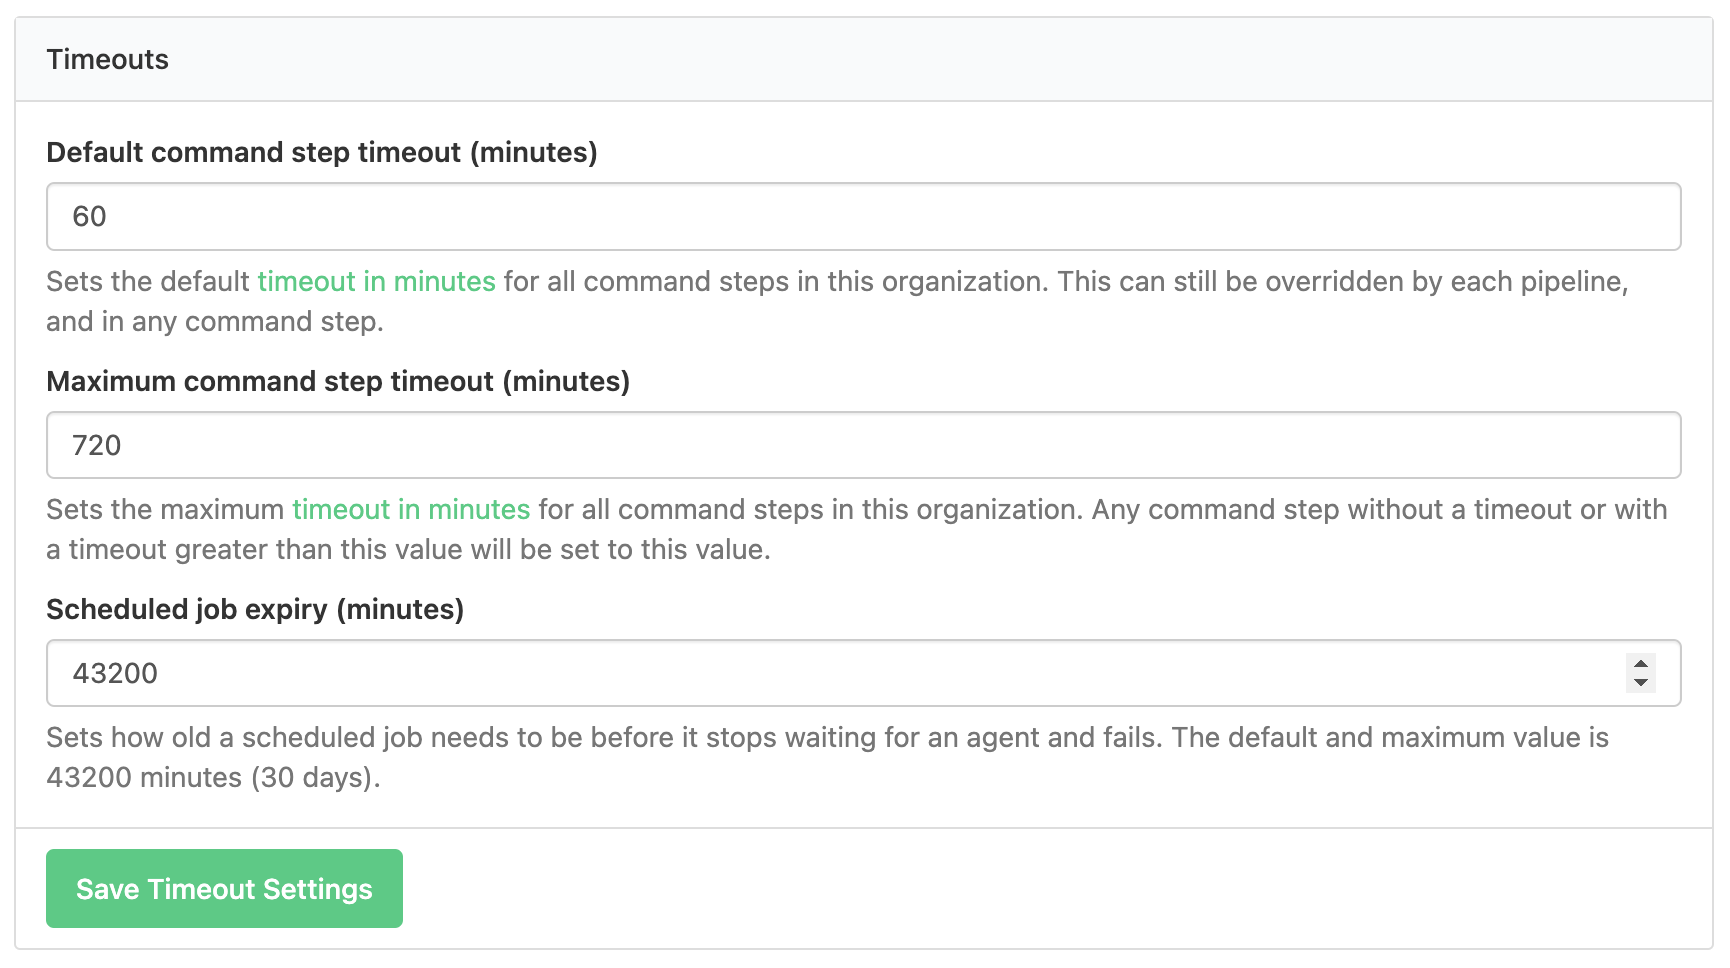
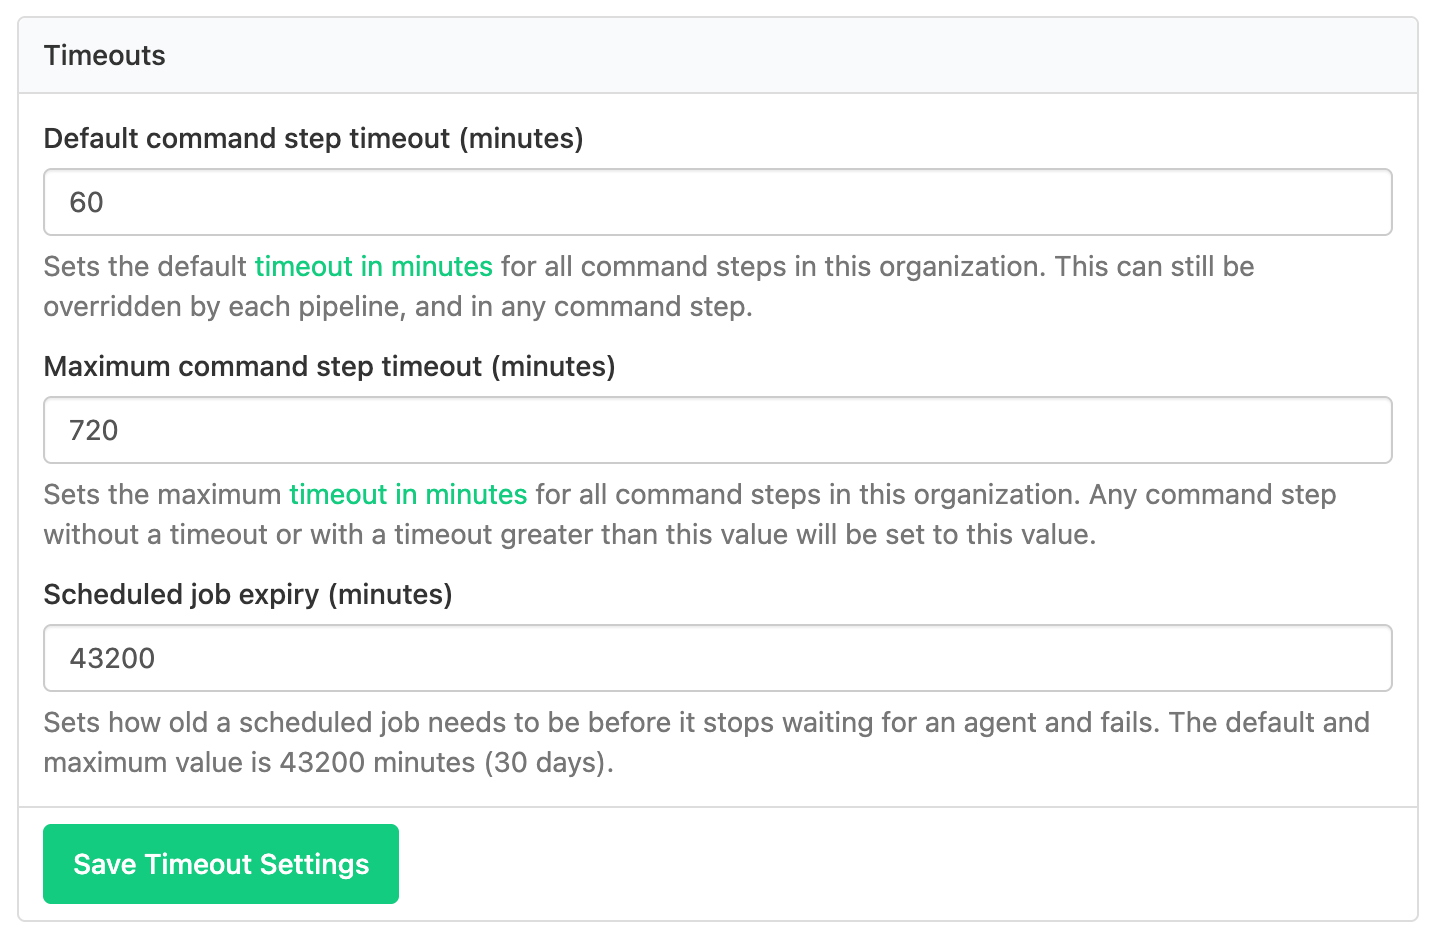
Refresh organization timeout screenshots
Capture the complete native panel in light and dark themes and add its replay recipe.

Amp-Thread-ID: https://ampcode.com/threads/T-82442ed7-d7c2-4a77-bc85-9b37cb23f52a

Changed region(s): [[0.0, 0.0309, 1.0, 0.9893], [0.0, 0.4947, 0.9499, 0.5874], [0.0, 0.371, 0.9499, 0.4947]]

diff --git a/images/docs/pipelines/configure/build_timeouts/pipeline_timeout_settings.md b/images/docs/pipelines/configure/build_timeouts/pipeline_timeout_settings.md
@@ -1,0 +1,12 @@
+# Organization build timeouts
+
+Recreate the organization-level example for [Build timeouts](/docs/pipelines/configure/build-timeouts), following the [shared screenshot guidance](../../../../../styleguides/working-with-docs-site.md#screenshots).
+
+Use an existing development or dedicated integration-test organization where you are an organization administrator. Do not save settings or create builds.
+
+1. Use Chrome for Testing 158 on macOS 27.2 with a 1150 × 1450 CSS-pixel viewport, 100% zoom, and DPR 2. Start in macOS Light with Chrome's `prefers-color-scheme` set to `light`. Verify native Light rendering, wait for `document.fonts.ready`, and verify the UI uses `.SF NS`.
+1. Open organization **Settings → Pipelines → Settings**. Note the saved values in **Timeouts**. Enter `60` in **Default command step timeout (minutes)**, `720` in **Maximum command step timeout (minutes)**, and `43200` in **Scheduled job expiry (minutes)**. Leave these examples unsaved.
+1. Scroll to the complete **Timeouts** card. Move the pointer outside the crop and clear input focus by clicking blank page space. At scroll (0, 735), crop the viewport from (328, 127), 718 × 469 CSS pixels. If the layout changes, measure the full card border and retain about 8 CSS pixels of surrounding space. Do not edit the page or include surrounding navigation or account details.
+1. Convert the crop to sRGB without resampling and save `pipeline_timeout_settings.png`. Leave without saving and reopen **Timeouts** to verify that all three saved values match the starting values. Repeat from fresh navigation in macOS Dark with Chrome's `prefers-color-scheme` set to `dark`. Verify native Dark rendering, save `pipeline_timeout_settings-dark.png`, and check the same saved values again.
+
+Accept two sRGB PNGs at 1436 × 938 pixels, displayed at up to 718 × 469 CSS pixels. Both show the entire native card, all three example values and help descriptions, and **Save Timeout Settings**, with identical geometry. No recoloring, callouts, browser chrome, clipping or identity.

diff --git a/pages/pipelines/configure/build_timeouts.md b/pages/pipelines/configure/build_timeouts.md
@@ -9,7 +9,7 @@ You can set timeouts on your builds through:
 
 Organization-level timeouts can be set in your organization's [**Pipeline Settings**](https://buildkite.com/organizations/~/pipeline-settings):
 
-<%= image "pipeline_timeout_settings.png", width: 1724/2, height: 736/2, alt: "Set timeout period for your jobs" %>
+<%= image "pipeline_timeout_settings.png", width: 1436/2, height: 938/2, alt: "Timeouts panel showing default and maximum command step timeouts and scheduled job expiry" %>
 
 ## Command timeouts
 
